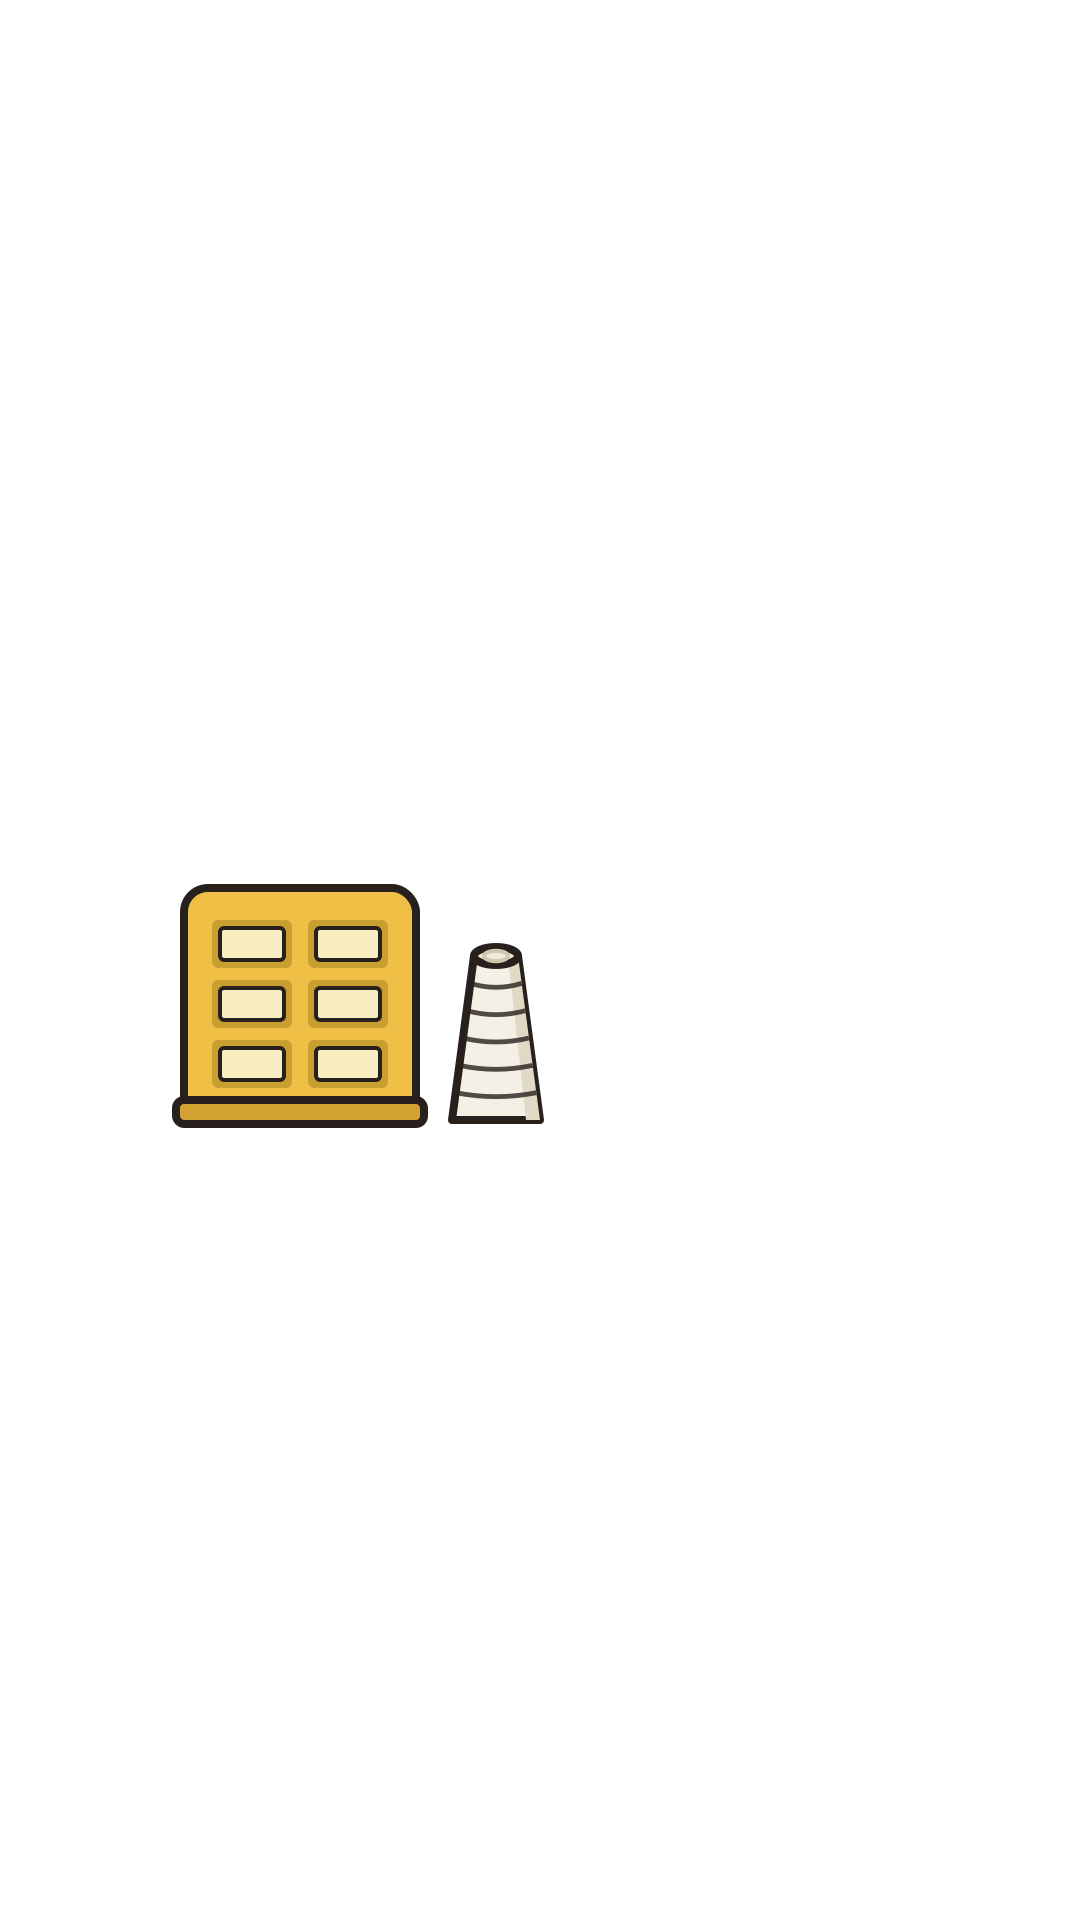
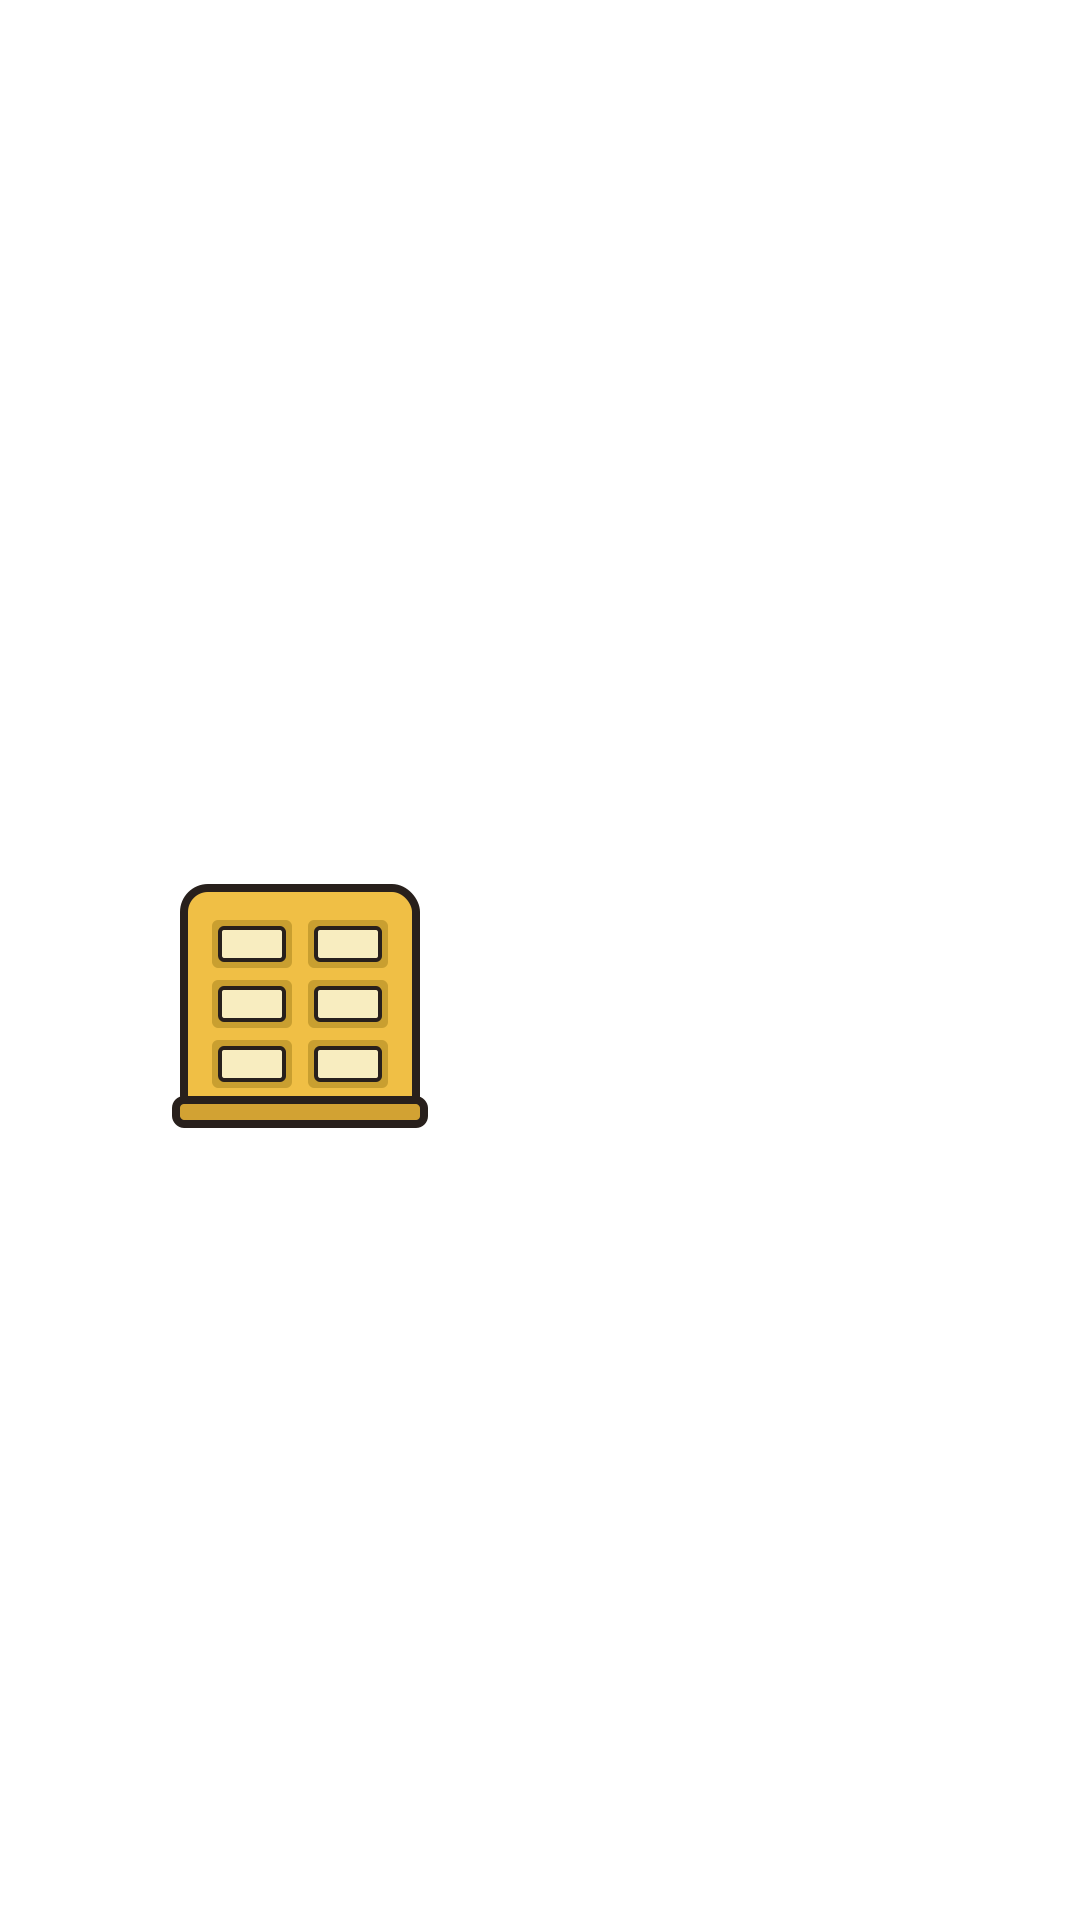
art(menu): remove the paper cups

Changed region(s): [[0.3972, 0.4688, 0.5194, 0.5938]]

diff --git a/assets/env/gen_svg.py b/assets/env/gen_svg.py
@@ -164,7 +164,7 @@ def cashier():
     # register + a stack of cups (the board is a separate, draggable sprite)
     W2, H2 = 540, 960
     cy = 560                       # counter top
-    body = f'''{register(150, cy)}{cups(248, cy)}'''
+    body = f'''{register(150, cy)}'''
     SS = 2
     svg = f'<svg xmlns="http://www.w3.org/2000/svg" viewBox="0 0 {W2} {H2}">{body}</svg>'
     cairosvg.svg2png(bytestring=svg.encode(), write_to=os.path.join(OUT, "cashier.png"),